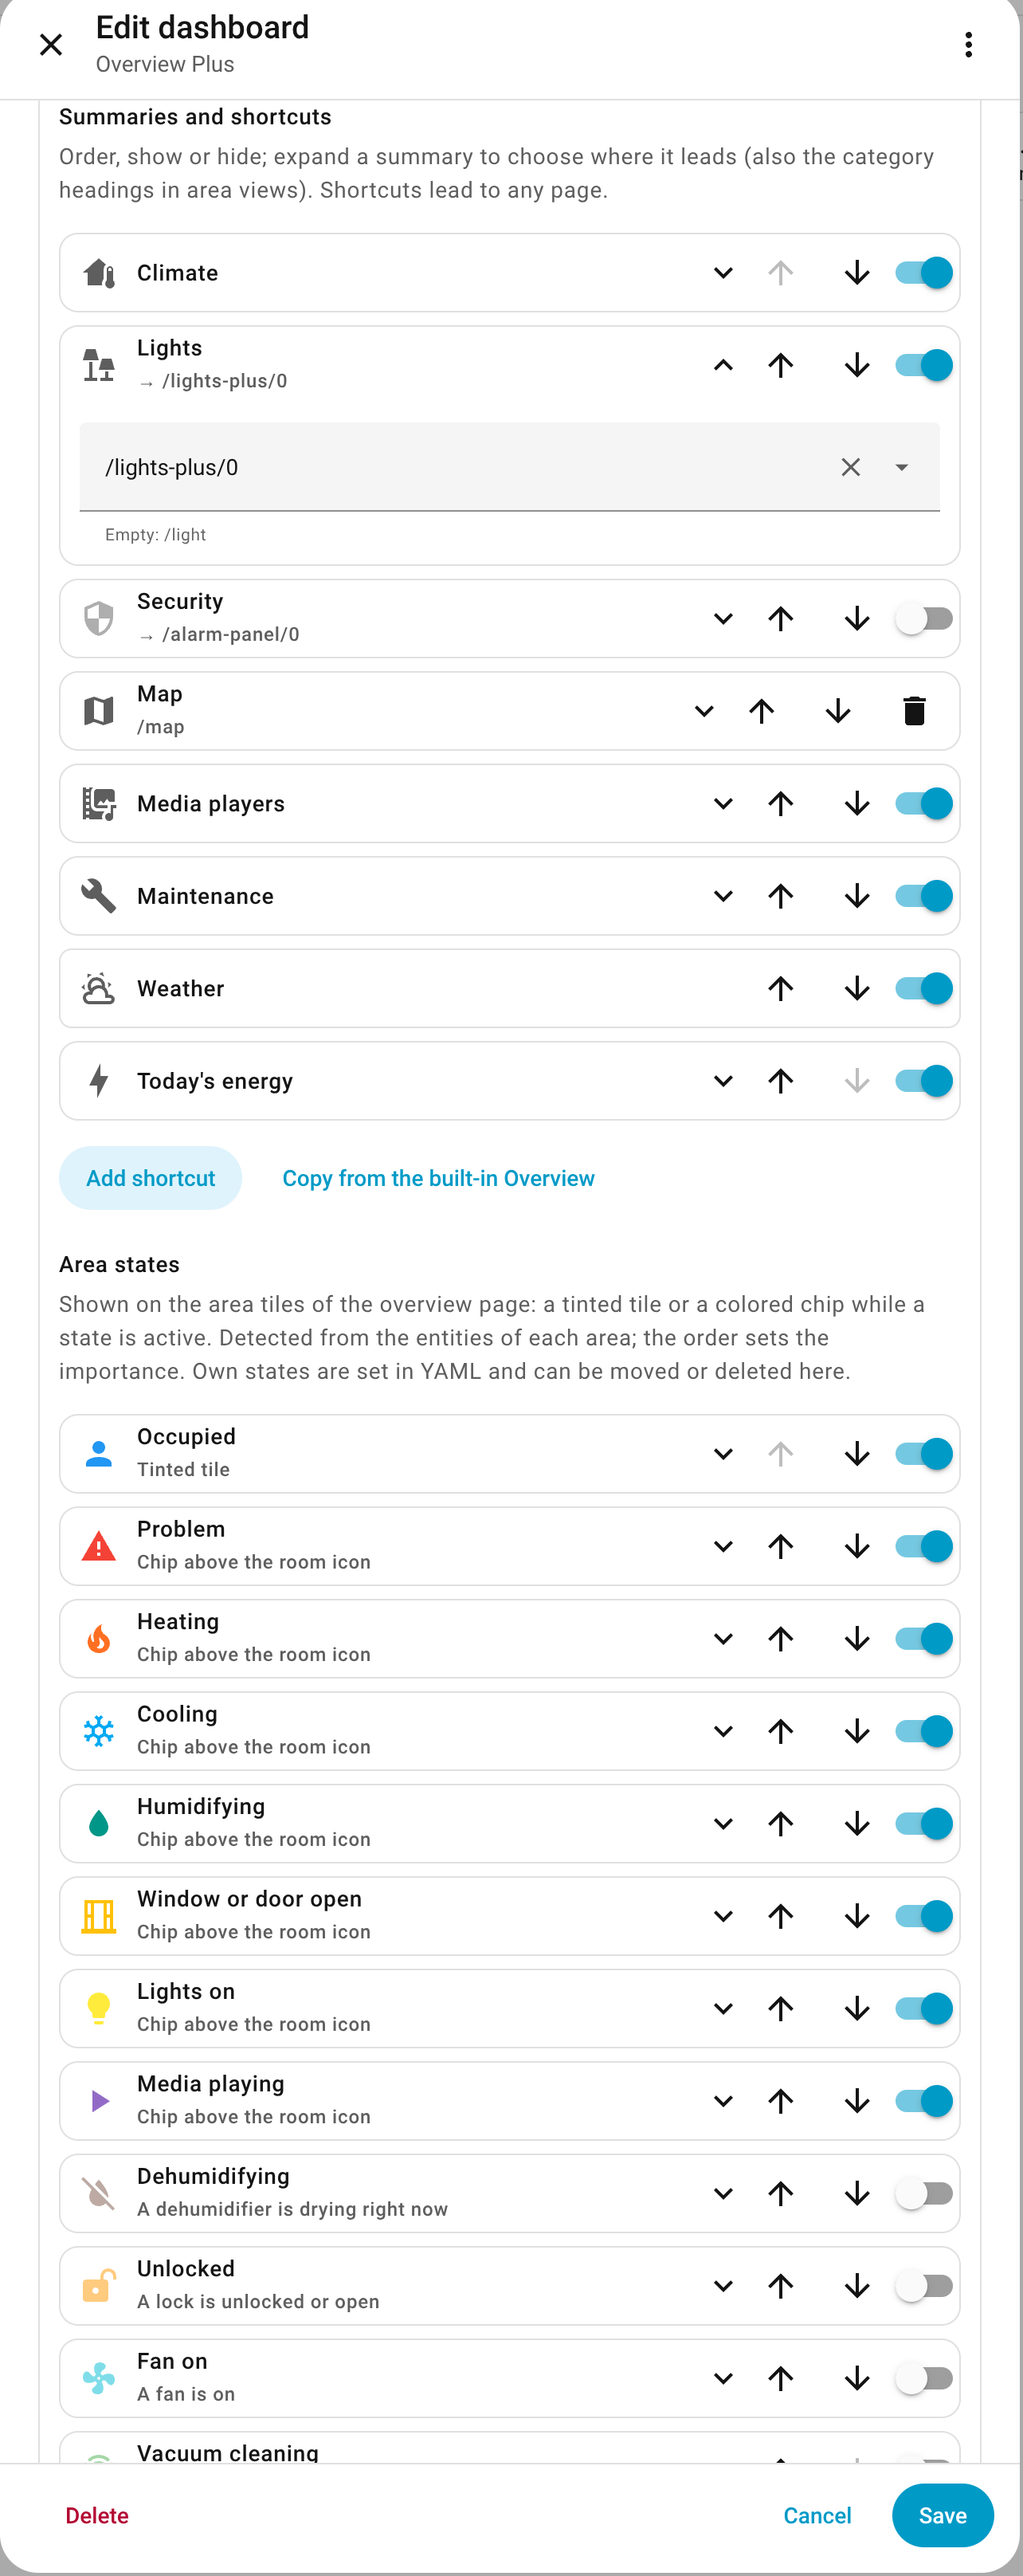
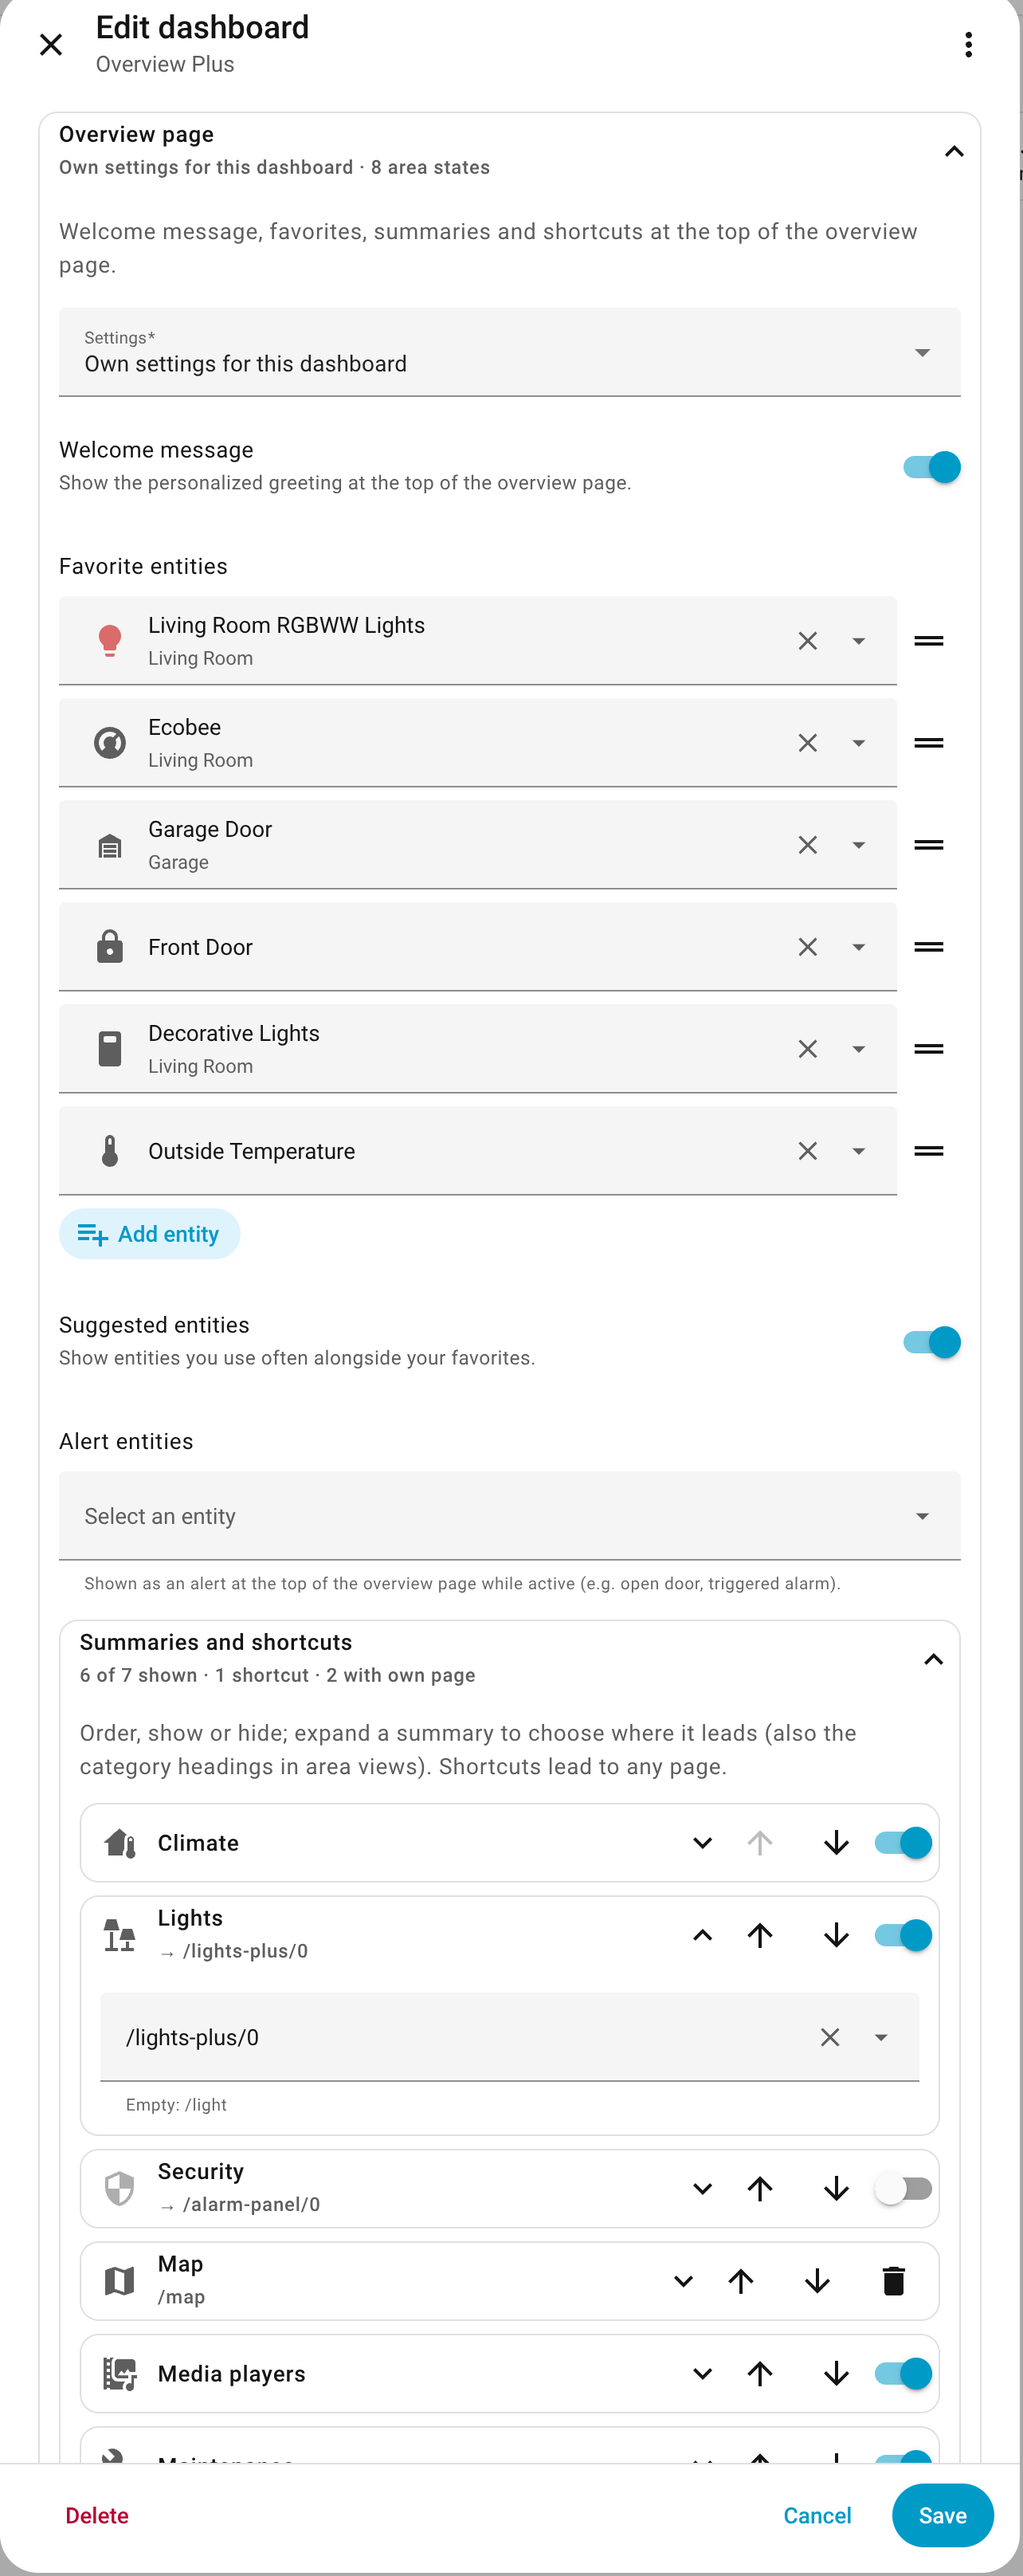
feat: collapsible summaries and area states in the overview page editor
"Summaries and shortcuts" (with the built-in settings: "Pages of the
summaries") and "Area states" are collapsible parts of the Overview page
block, collapsed at first, with a short summary in their header (shown
summaries, shortcuts, own pages; area states switched on). Their open
state is remembered like the top-level parts.

diff --git a/src/editor/editor.js b/src/editor/editor.js
@@ -45,6 +45,9 @@ const STYLE = `
   .top { display: block; }
   .top + .top { margin-top: 12px; }
   .top > .panel-body { padding: 16px 12px; }
+  .sub { margin-top: 16px; }
+  .sub > .panel-body > .hint { margin: 0 0 -12px; }
+  .sub .home-items, .sub .indicator-items { margin: 0; }
   .subheading { font-weight: var(--ha-font-weight-medium, 500); margin: 0 0 4px; }
   .hint { color: var(--secondary-text-color); margin: 0 0 16px; }
   .list { display: flex; flex-direction: column; gap: 8px; }
@@ -179,6 +182,8 @@ class OverviewPlusStrategyEditor extends HTMLElement {
     this._openTop = loadOpenTop();
     /** @type {Record<string, (header: string, secondary: string) => void>} */
     this._topHeaders = {};
+    /** @type {Record<string, (secondary: string) => void>} */
+    this._subHeaders = {};
     /** @type {any} */
     this._opts = undefined;
     /** @type {string | undefined} config last sent to Home Assistant */
@@ -500,6 +505,23 @@ class OverviewPlusStrategyEditor extends HTMLElement {
     const saved = Object.keys(fromForm(this._form, this._config).area_overrides || {}).length;
     this._topHeaders.areas?.(this._t(TOP_TITLES.areas), n(saved, "editor_one_area", "editor_n_areas", "editor_no_areas_short"));
     this._topHeaders.general?.(this._t(TOP_TITLES.general), n(this._form.rules.length, "editor_one_rule", "editor_n_rules", "editor_no_rules_short"));
+
+    // Parts inside "Overview page"
+    const ownPages = Object.values(this._form.summary_pages || {}).filter(Boolean).length;
+    const pagesText = ownPages ? this._t("editor_sum_pages", { n: String(ownPages) }) : this._t("editor_sum_default_pages");
+    if (own) {
+      const items = this._form.home?.items || [];
+      const summaries = items.filter((/** @type {any} */ i) => i.type === "summary");
+      const shortcuts = items.filter((/** @type {any} */ i) => i.type !== "summary").length;
+      this._subHeaders.summaries?.([
+        this._t("editor_sum_shown", { n: String(summaries.filter((/** @type {any} */ i) => !i.hidden).length), total: String(summaries.length) }),
+        ...(shortcuts ? [this._t(shortcuts === 1 ? "editor_sum_one_shortcut" : "editor_sum_shortcuts", { n: String(shortcuts) })] : []),
+        ...(ownPages ? [pagesText] : []),
+      ].join(" · "));
+    } else {
+      this._subHeaders.summaries?.(pagesText);
+    }
+    this._subHeaders.indicators?.(states ? this._t(states === 1 ? "editor_one_state_on" : "editor_n_states_on", { n: String(states) }) : this._t("editor_no_states"));
   }
 
   /** @param {string} key */
@@ -572,10 +594,13 @@ class OverviewPlusStrategyEditor extends HTMLElement {
       hint.style.marginTop = "8px";
       const list = document.createElement("div");
       list.className = "list home-items";
-      block.append(hint, this._subheading("editor_summary_pages"), this._hint("editor_summary_pages_help"), list);
+      const pages = this._subPanel("summaries", "editor_summary_pages");
+      pages.body.append(this._hint("editor_summary_pages_help"), list);
+      block.append(hint, pages.root);
       // Order and visibility come from the built-in Overview; only the pages are set here
       for (const key of SUMMARY_PAGE_KEYS) list.append(this._summaryPanel({ type: "summary", key }));
       this._renderIndicatorBlock(block);
+      this._refreshTopHeaders();
       return;
     }
 
@@ -595,13 +620,13 @@ class OverviewPlusStrategyEditor extends HTMLElement {
           home.alerts = v.h_alerts || [];
           this._emit();
         }
-      ),
-      this._subheading("editor_summaries"),
-      this._hint("editor_summaries_help")
+      )
     );
+    const summaries = this._subPanel("summaries", "editor_summaries");
     const list = document.createElement("div");
     list.className = "list home-items";
-    block.append(list);
+    summaries.body.append(this._hint("editor_summaries_help"), list);
+    block.append(summaries.root);
     this._renderHomeItems(list);
 
     const actions = document.createElement("div");
@@ -615,8 +640,26 @@ class OverviewPlusStrategyEditor extends HTMLElement {
       }),
       this._button(this._t("editor_copy_home"), () => this._copyHome(), "plain")
     );
-    block.append(actions);
+    summaries.body.append(actions);
     this._renderIndicatorBlock(block);
+    this._refreshTopHeaders();
+  }
+
+  /**
+   * A collapsible part inside "Overview page"; its open state is remembered like the top-level parts.
+   * @param {"summaries" | "indicators"} key
+   * @param {string} titleKey
+   */
+  _subPanel(key, titleKey) {
+    const id = `home-${key}`;
+    const panel = this._panel(this._t(titleKey), "", this._openTop.has(id), (open) => {
+      if (open) this._openTop.add(id);
+      else this._openTop.delete(id);
+      saveOpenTop(this._openTop);
+    });
+    panel.root.classList.add("sub", `sub-${key}`);
+    this._subHeaders[key] = (/** @type {string} */ secondary) => panel.setHeader(this._t(titleKey), secondary);
+    return panel;
   }
 
   // ---------------------------------------------------------- area indicators
@@ -625,7 +668,9 @@ class OverviewPlusStrategyEditor extends HTMLElement {
   _renderIndicatorBlock(block) {
     const list = document.createElement("div");
     list.className = "list indicator-items";
-    block.append(this._subheading("editor_indicators"), this._hint("editor_indicators_help"), list);
+    const panel = this._subPanel("indicators", "editor_indicators");
+    panel.body.append(this._hint("editor_indicators_help"), list);
+    block.append(panel.root);
     this._renderIndicatorItems(list);
   }
 

diff --git a/src/i18n.js b/src/i18n.js
@@ -82,6 +82,14 @@ const STRINGS = {
     editor_no_rules_short: "No card rules",
     editor_one_state: "1 area state",
     editor_n_states: "{n} area states",
+    editor_sum_shown: "{n} of {total} shown",
+    editor_sum_one_shortcut: "1 shortcut",
+    editor_sum_shortcuts: "{n} shortcuts",
+    editor_sum_pages: "{n} with own page",
+    editor_sum_default_pages: "Home Assistant's pages",
+    editor_one_state_on: "1 switched on",
+    editor_n_states_on: "{n} switched on",
+    editor_no_states: "None switched on",
     editor_home: "Overview page",
     editor_home_help: "Welcome message, favorites, summaries and shortcuts at the top of the overview page.",
     editor_h_source: "Settings",
@@ -332,6 +340,14 @@ const STRINGS = {
     editor_no_rules_short: "Keine Kartenregeln",
     editor_one_state: "1 Raumzustand",
     editor_n_states: "{n} Raumzustände",
+    editor_sum_shown: "{n} von {total} sichtbar",
+    editor_sum_one_shortcut: "1 Shortcut",
+    editor_sum_shortcuts: "{n} Shortcuts",
+    editor_sum_pages: "{n} mit eigener Seite",
+    editor_sum_default_pages: "Seiten von Home Assistant",
+    editor_one_state_on: "1 eingeschaltet",
+    editor_n_states_on: "{n} eingeschaltet",
+    editor_no_states: "Keiner eingeschaltet",
     editor_home: "Startseite",
     editor_home_help: "Begrüßung, Favoriten, Zusammenfassungen und Shortcuts oben auf der Startseite.",
     editor_h_source: "Einstellungen",

diff --git a/test/editor.test.js b/test/editor.test.js
@@ -450,3 +450,24 @@ test("the editor works when the browser storage is not available", () => {
     if (original) Object.defineProperty(win, "localStorage", original);
   }
 });
+
+test("summaries and area states are collapsible parts of the overview page, with a summary", () => {
+  window.localStorage.removeItem("overview-plus:editor-open");
+  const { editor } = setup({
+    type: "custom:overview-plus",
+    load_home_settings: false,
+    shortcuts: [{ type: "summary", key: "light", hidden: true }, { type: "custom", path: "/map" }],
+    summary_pages: { climate: "/heat" },
+    area_indicators: [{ preset: "occupied" }, { preset: "heating" }],
+  });
+  const sub = (key) => root(editor).querySelector(`details.sub-${key}`);
+  const text = (key) => sub(key).querySelector(":scope > summary").textContent;
+  assert.ok(sub("summaries") && !sub("summaries").open);
+  assert.ok(sub("indicators") && !sub("indicators").open);
+  assert.match(text("summaries"), /6 of 7 shown · 1 shortcut · 1 with own page$/);
+  assert.match(text("indicators"), /2 switched on$/);
+
+  const builtin = setup({ type: "custom:overview-plus" });
+  assert.match(root(builtin.editor).querySelector("details.sub-summaries > summary").textContent, /Home Assistant's pages$/);
+  assert.match(root(builtin.editor).querySelector("details.sub-indicators > summary").textContent, /None switched on$/);
+});

diff --git a/README.md b/README.md
@@ -48,15 +48,15 @@ parts, each with a short summary of what is set.
 
 <table>
 <tr>
-<td width="50%" valign="top"><b>Overview page</b> – favorites, summaries and shortcuts, own or those of the built-in Overview<br><br><img src="https://raw.githubusercontent.com/financelurker/ha-overview-plus/main/docs/images/editor-overview-page.png?v=6b005b3557" alt="Editor: overview page settings"></td>
+<td width="50%" valign="top"><b>Overview page</b> – favorites, summaries and shortcuts, own or those of the built-in Overview<br><br><img src="https://raw.githubusercontent.com/financelurker/ha-overview-plus/main/docs/images/editor-overview-page.png?v=2e1824e2d8" alt="Editor: overview page settings"></td>
 <td width="50%" valign="top"><b>Area layout</b> – badges, tile and sections, selected by label, integration and more<br><br><img src="https://raw.githubusercontent.com/financelurker/ha-overview-plus/main/docs/images/editor-area.png?v=25b0602faa" alt="Editor: area layout with sections"></td>
 </tr>
 <tr>
 <td width="50%" valign="top"><b>Card rule</b> – replace a card and show another one in a popup on tap<br><br><img src="https://raw.githubusercontent.com/financelurker/ha-overview-plus/main/docs/images/editor-card-rule.png?v=a48dda084d" alt="Editor: card rule with popup"></td>
-<td width="50%" valign="top"><b>Summaries</b> – order, show or hide, and the page each one leads to: Home Assistant's own or a dashboard of yours<br><br><img src="https://raw.githubusercontent.com/financelurker/ha-overview-plus/main/docs/images/editor-summary-pages.png?v=8be433563d" alt="Editor: pages of the summaries"></td>
+<td width="50%" valign="top"><b>Summaries</b> – order, show or hide, and the page each one leads to: Home Assistant's own or a dashboard of yours<br><br><img src="https://raw.githubusercontent.com/financelurker/ha-overview-plus/main/docs/images/editor-summary-pages.png?v=1ed4469bbb" alt="Editor: pages of the summaries"></td>
 </tr>
 <tr>
-<td width="50%" valign="top"><b>Area states</b> – which states the area tiles show, their order, tile or chip, icon and color<br><br><img src="https://raw.githubusercontent.com/financelurker/ha-overview-plus/main/docs/images/editor-indicators.png?v=c73ec15d4b" alt="Editor: area states"></td>
+<td width="50%" valign="top"><b>Area states</b> – which states the area tiles show, their order, tile or chip, icon and color<br><br><img src="https://raw.githubusercontent.com/financelurker/ha-overview-plus/main/docs/images/editor-indicators.png?v=da2f642b00" alt="Editor: area states"></td>
 <td width="50%" valign="top"><b>Mobile</b> – the overview page on a phone<br><br><img src="https://raw.githubusercontent.com/financelurker/ha-overview-plus/main/docs/images/overview-mobile.png?v=b927038a82" alt="Overview page on a phone"></td>
 </tr>
 </table>
@@ -91,7 +91,8 @@ To configure it, open the dashboard → ✏ (edit). The visual editor has thr
 open ones are remembered in the browser):
 
 - **Overview page:** welcome message, favorites, suggested entities, summaries and shortcuts, alert
-  entities – the same as in the built-in Overview, or own settings for this dashboard.
+  entities – the same as in the built-in Overview, or own settings for this dashboard. *Summaries and shortcuts* and
+  *Area states* are collapsible parts of it.
 - **Area layouts:** every area with its own layout is a collapsible block showing its sections and a
   short summary. Inside: badges, the toggles for remaining devices and automations, and the sections
   (title, icon, layout, label). *Refine selection*, *Entity filter* and *Primary entity* are form
